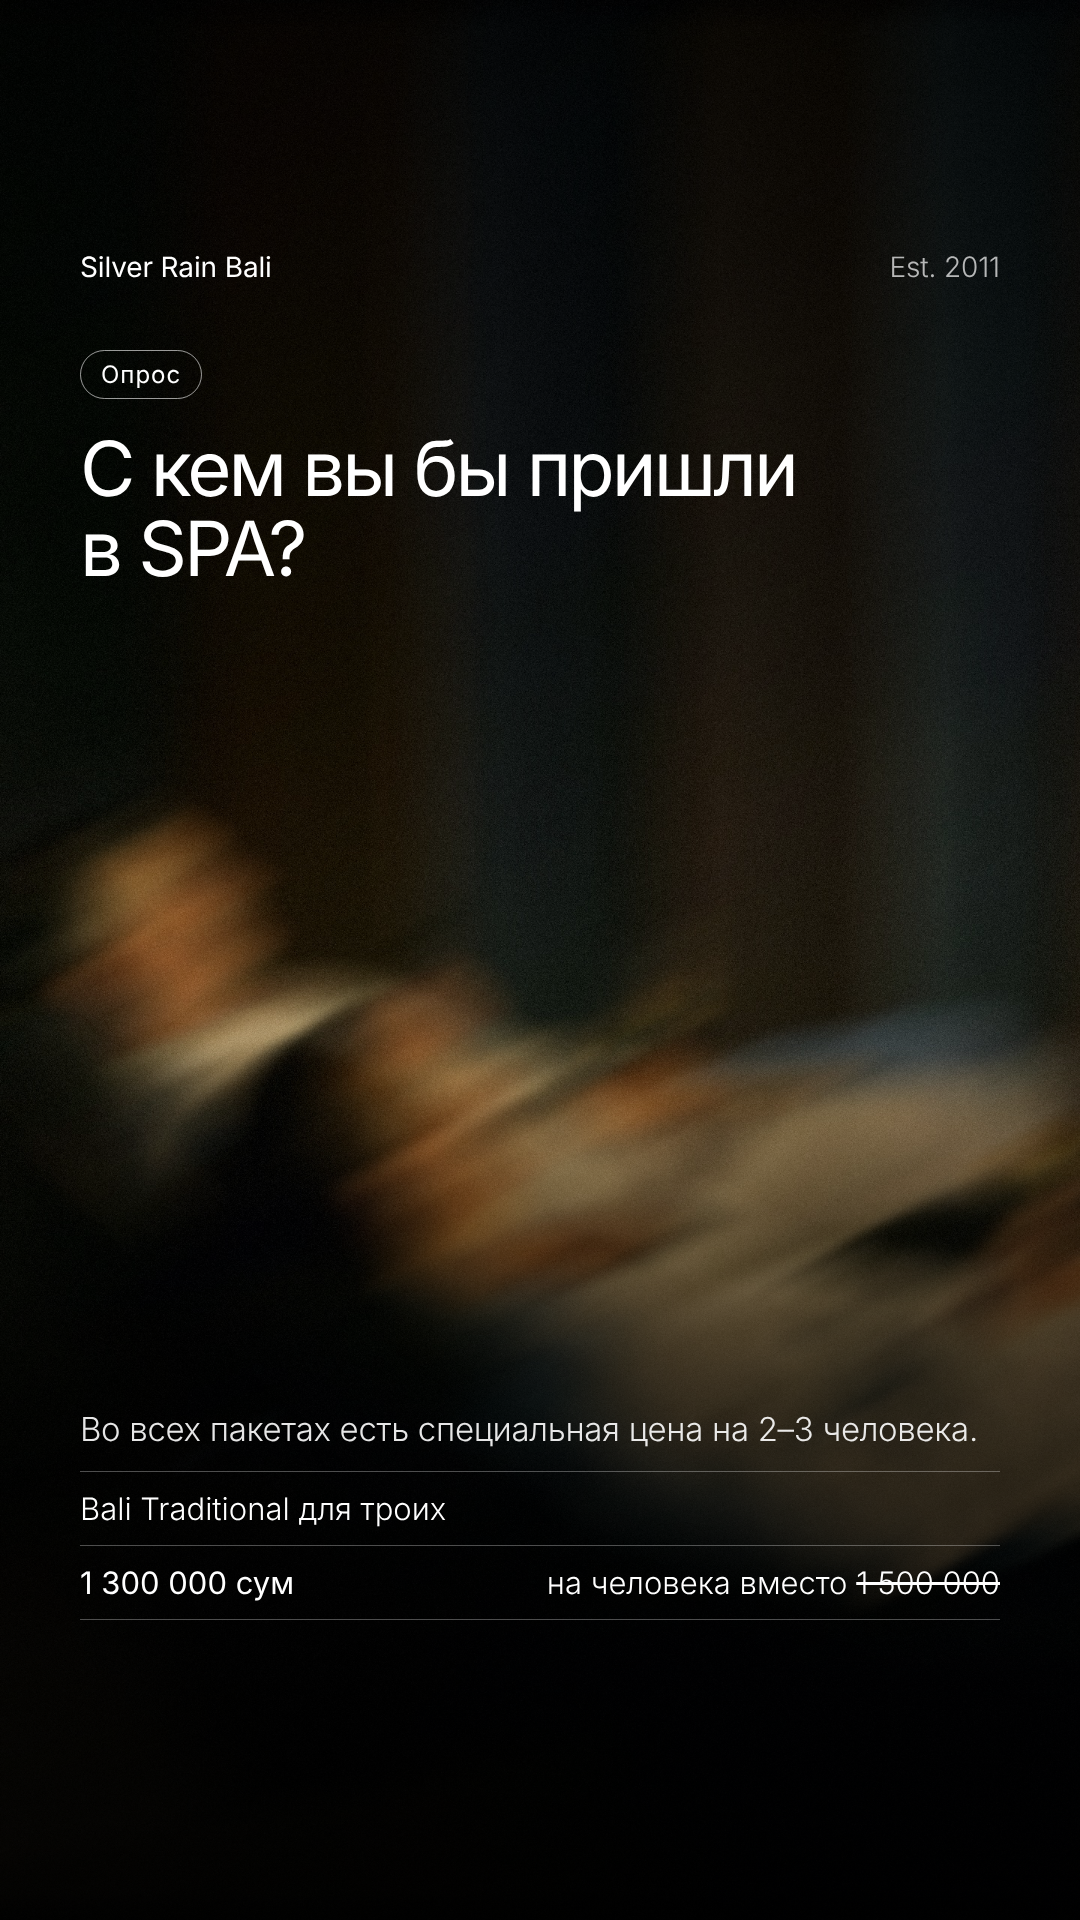
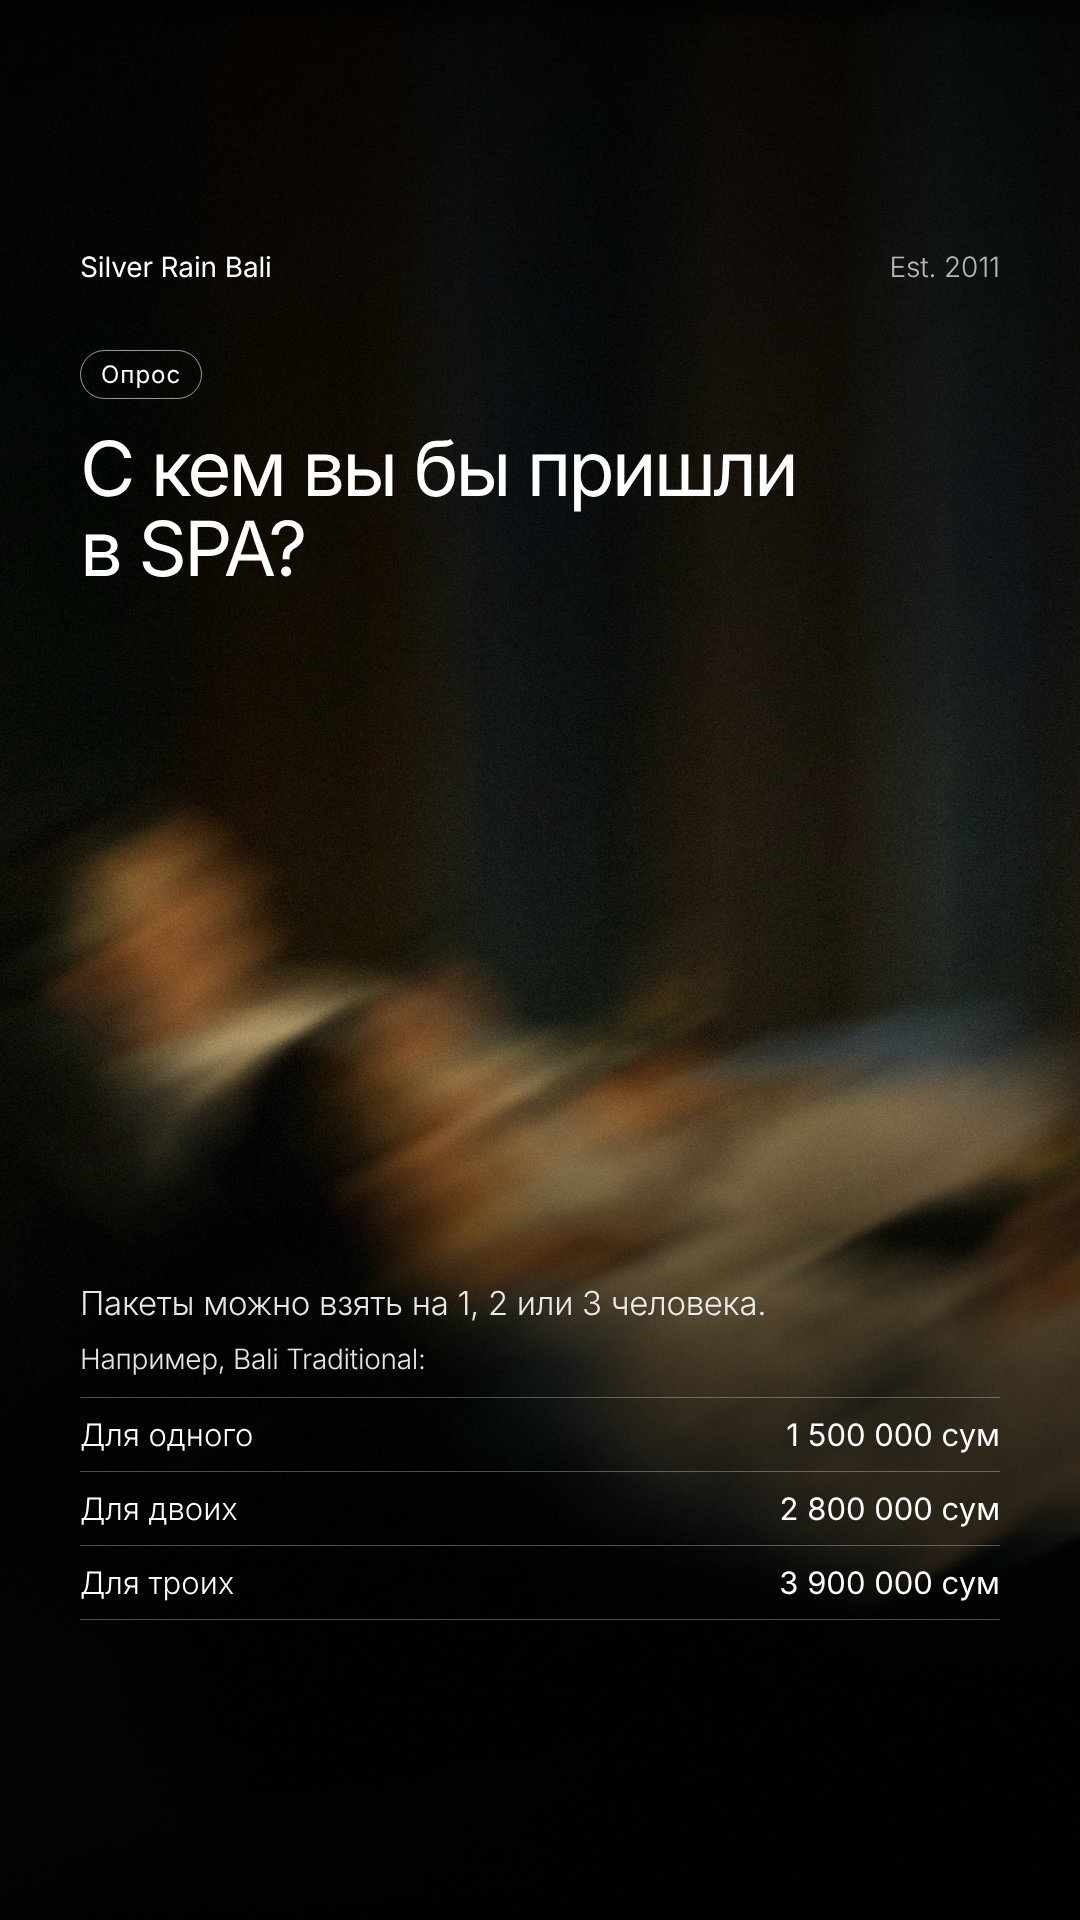
Bali poll story 1: new package prices for 1/2/3 people
Claude-Session: https://claude.ai/code/session_016hDDYxXRao7raJTtdDbdUH

diff --git a/stories-silverrain/story61.html b/stories-silverrain/story61.html
@@ -43,5 +43,5 @@ h1 b{font-weight:400}
 <section class="story">
   <div class="z top"><div>Silver Rain Bali</div><div class="d">Est. 2011</div></div>
   <div class="qtop"><div class="qtag">Опрос</div><div class="qh">С&nbsp;кем вы бы пришли в&nbsp;SPA?</div></div>
-<div class="z txt"><div class="info">Во&nbsp;всех пакетах есть специальная цена на&nbsp;2–3&nbsp;человека.</div><ul class="rows"><li><span class="dim">Bali Traditional для троих</span></li><li><b>1 300 000 сум</b><span class="dim">на&nbsp;человека вместо <s>1 500 000</s></span></li></ul></div>
+<div class="z txt"><div class="info">Пакеты можно взять на&nbsp;1, 2&nbsp;или 3&nbsp;человека.</div><div class="info dim" style="margin-top:14px;font-size:28px">Например, Bali Traditional:</div><ul class="rows"><li><span class="dim">Для одного</span><b>1 500 000 сум</b></li><li><span class="dim">Для двоих</span><b>2 800 000 сум</b></li><li><span class="dim">Для троих</span><b>3 900 000 сум</b></li></ul></div>
 </section></body></html>
